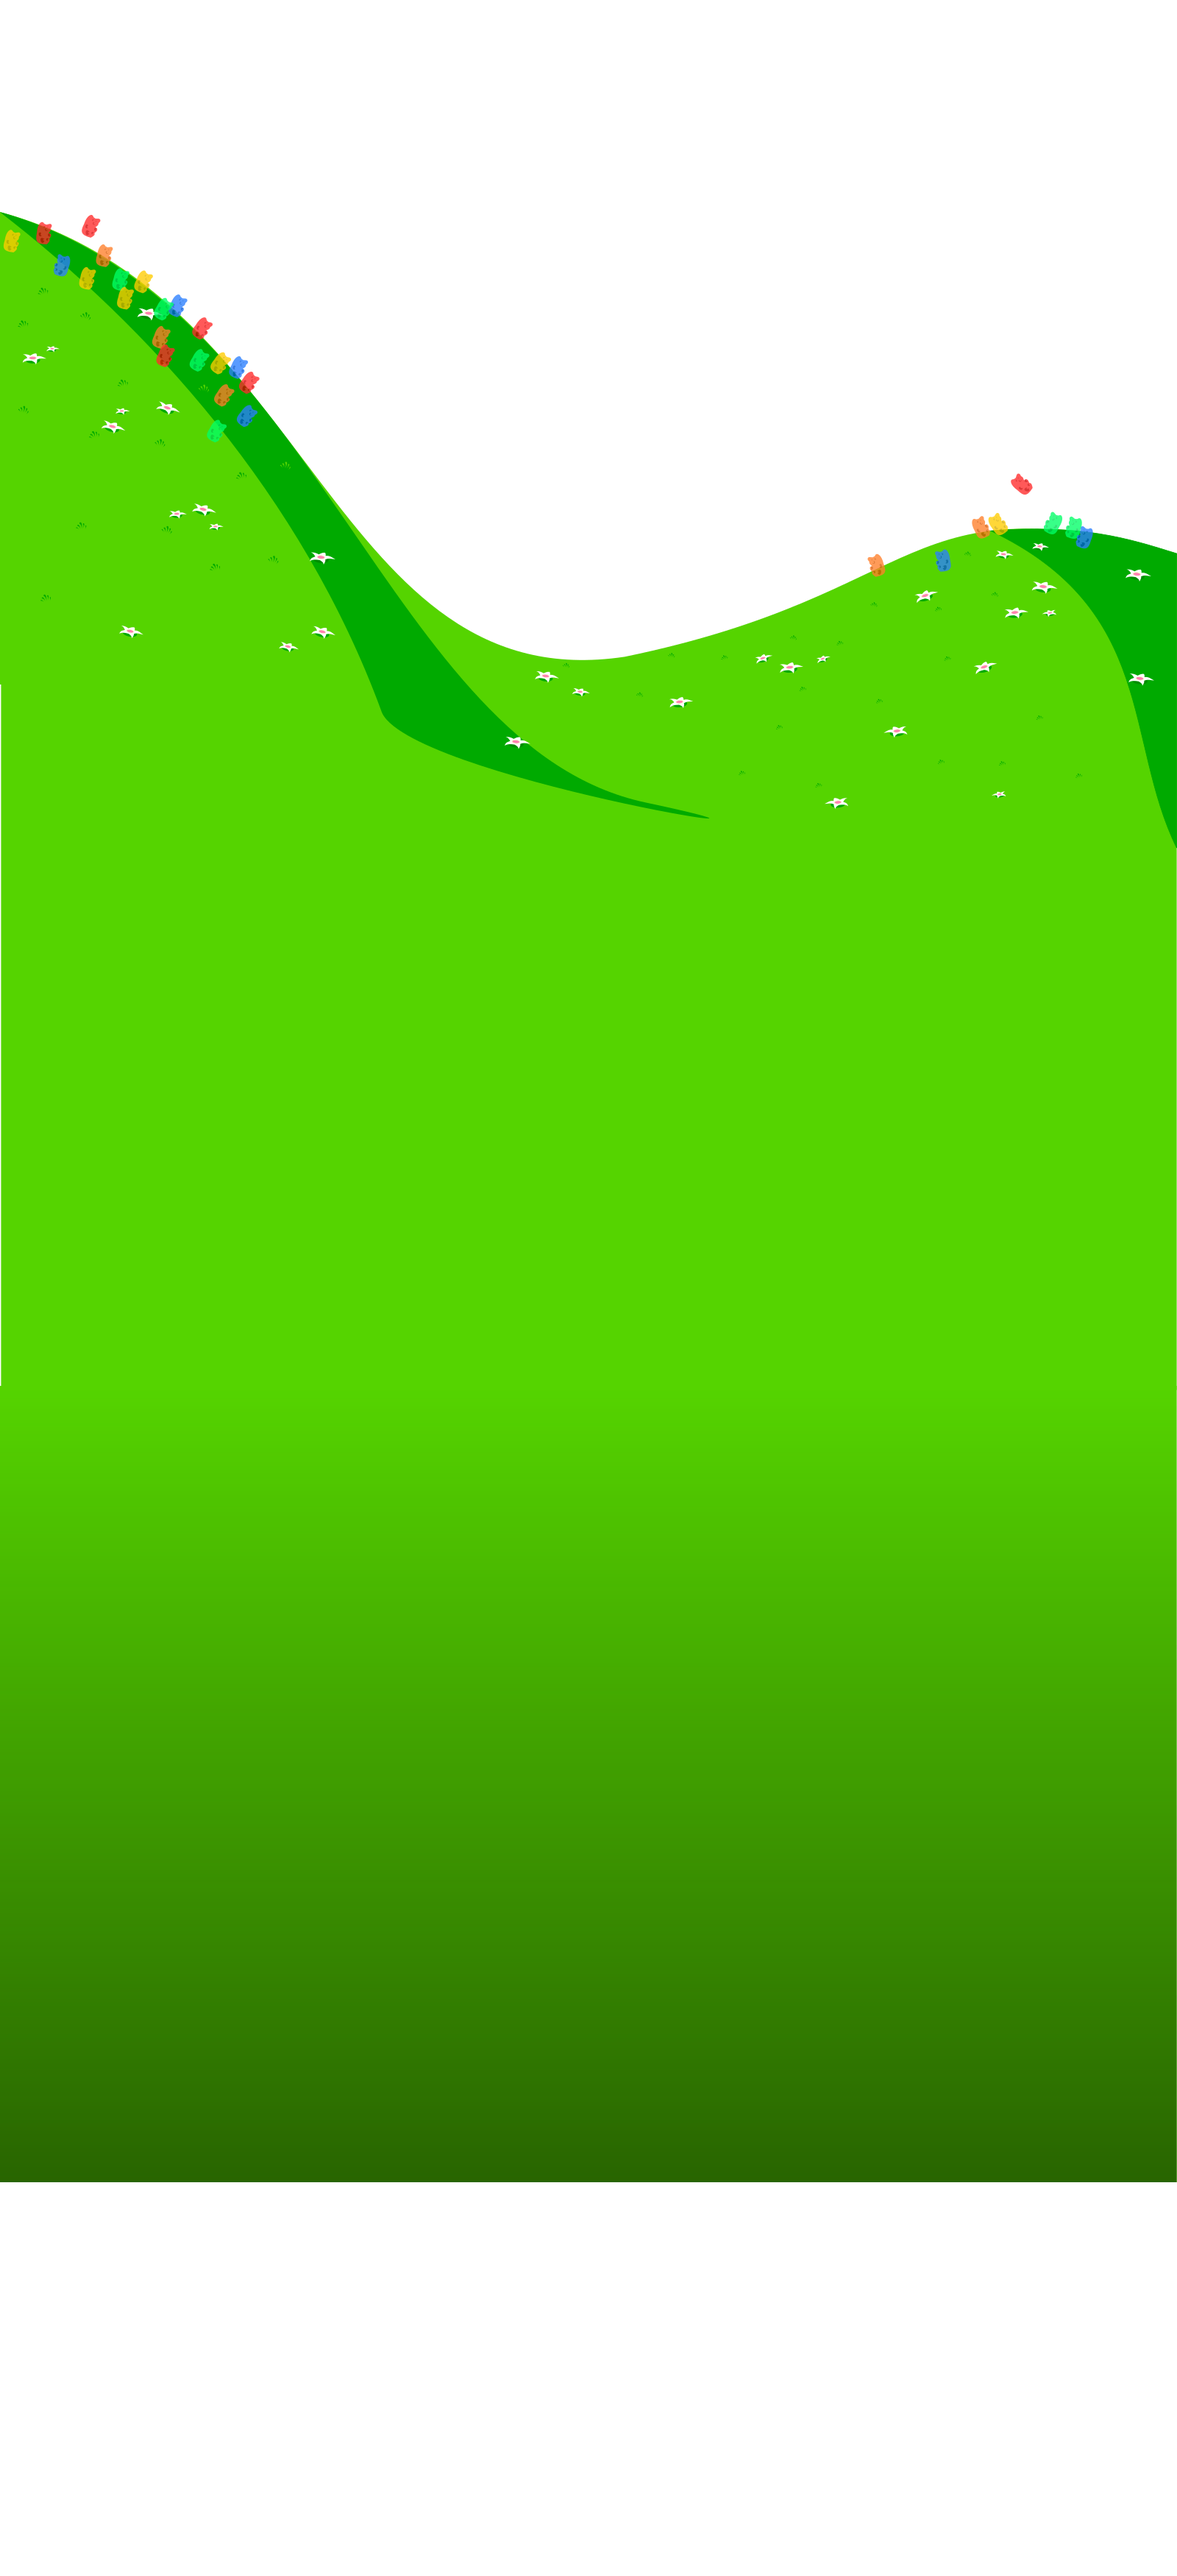
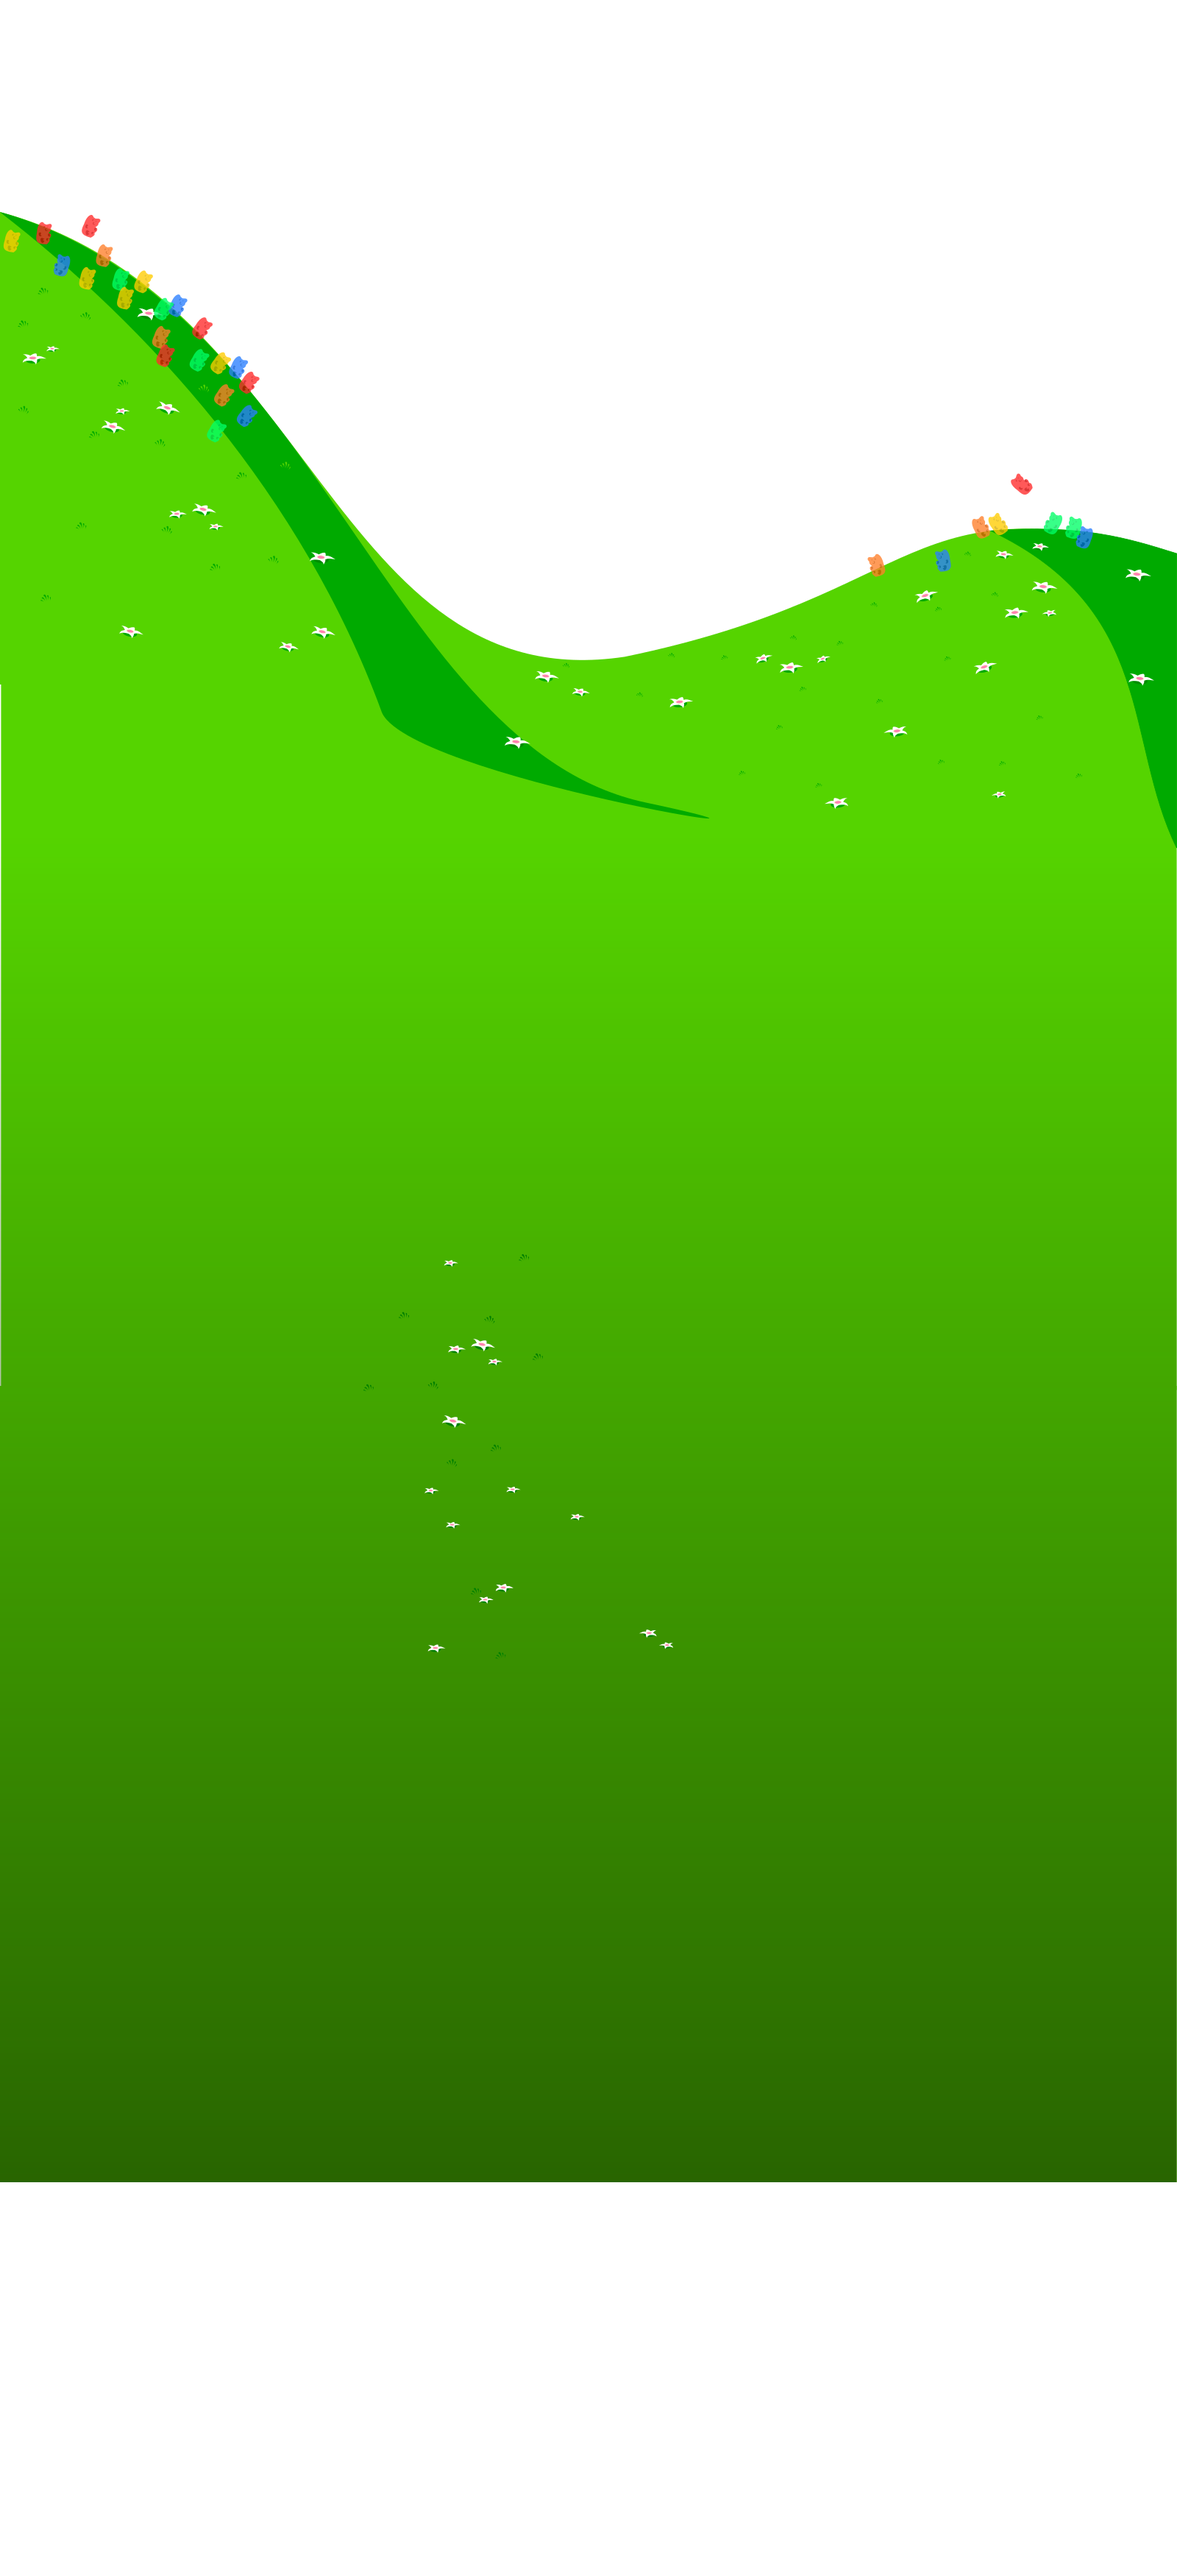
new textures to hill. Gifs are different

Changed region(s): [[0.0, 0.436, 1.0, 0.6851]]

diff --git a/app/assets/javascripts/home/home.js b/app/assets/javascripts/home/home.js
@@ -31,12 +31,23 @@ $(document).ready(function() {
   });
 
   $('<img />',{ src: '/assets/jaw_breaker.gif'});
+  $('<img />',{ src: '/assets/run.gif'});
+  $('<img />',{ src: '/assets/idle.gif'});
   $('.grid').hover(function(){
-    //appending a random number as a paramater to the file path forces a reload
-    //and prevent Chrome from stopping the gif from playing
-    $(this).find('img').attr("src","/assets/jaw_breaker.gif?p"  + new Date().getTime());
+    type =  $(this).find('img').attr('data-type')
+    if(type === 'run') {
+      //appending a random number as a paramater to the file path forces a reload
+      //and prevent Chrome from stopping the gif from playing
+       $(this).find('img').attr("src","/assets/run.gif?p"  + new Date().getTime());
+
+    }
+    else if(type === 'idle') {
+     $(this).find('img').attr("src","/assets/idle.gif?p"  + new Date().getTime());
+    }
+
   },
     function(){
+
         $(this).find('img').attr("src","/assets/rectangle.png")
     });
 
